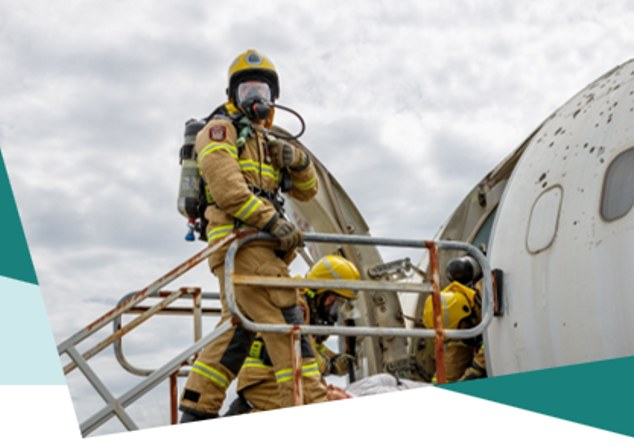
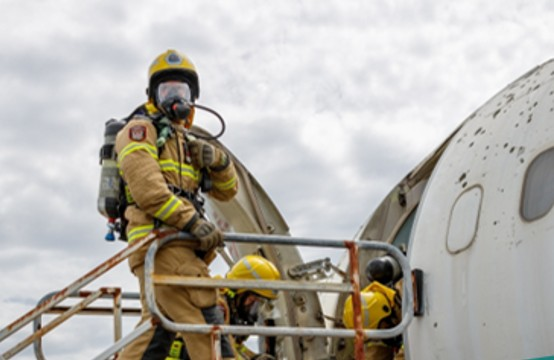
Rebuild the header composition to match the reference artwork
The previous attempt kept my own layout and only swapped the polygons. This
reproduces the supplied composition's actual geometry.

- Header becomes a two-column grid; the art column is locked to the
  reference's 798x662 ratio and bleeds off the right edge, so the shapes hold
  their proportions rather than being stretched by the header's height.
- Image frame: quadrilateral with a steep left edge, corners taken from the
  reference at 19%/14.4%, 100%/0, 100%/100%, 43.9%/100%.
- Coast quadrilateral behind it on the opposing angle, so it surfaces only as
  a wedge above the frame and a band below its lower-left corner. Solid
  rather than tinted, matching the reference.
- Below 900px the same two shapes sit under the heading at 16:9.

hero.jpg is re-cropped to 554x360 - the largest region of the email banner
free of its own white and pale-teal corners, which were bleeding through the
frame in the previous render. object-position moved to 10% so the steep left
edge no longer cuts through the firefighter.

Claude-Session: https://claude.ai/code/session_01Pvx1KHBK4SKDspdgaa5xKi

diff --git a/index.html b/index.html
@@ -37,19 +37,22 @@ body{margin:0;min-height:100vh;font-family:"Lab Grotesque","Open Sans",Arial,Hel
 .logobar{background:var(--white);padding:1.15rem clamp(1rem,4vw,4rem);border-bottom:1px solid rgba(10,73,99,.08)}
 .logo{display:block;width:190px;max-width:52vw;height:auto}
 
-header{background:var(--teal);color:var(--white);padding:2.25rem clamp(1rem,4vw,4rem) 4.75rem;position:relative;overflow:hidden}
+header{background:var(--teal);color:var(--white);padding:2.25rem clamp(1rem,4vw,4rem) 4.75rem;position:relative;overflow:hidden;display:grid;grid-template-columns:minmax(0,1fr) minmax(0,.68fr);gap:clamp(1rem,3vw,2.75rem);align-items:center}
 
 /* Graphic thread - layering approach, per the PAPL brand guidelines.
-   One composition only: an image frame cropped to a quadrilateral (two
-   triangles forming a 'point', a shape deconstructed from the facets),
-   paired with a single-colour triangle sitting BEHIND it at a different
-   angle. Coast at 34% keeps it a tint rather than a focal point, and the
-   left half of the header stays a large unobstructed content area.
+   The image is cropped to a quadrilateral (two triangles forming a 'point',
+   a shape deconstructed from the facets) with a steep left edge. A single
+   solid Coast quadrilateral sits BEHIND it on a counter-angle, so it shows
+   only at two opposite ends - a wedge above the frame's top edge and a
+   band below its lower-left corner. Angles are deliberately opposed rather
+   than mirrored, per "vary angles dynamically to avoid repetition".
+   Percentages are taken from the reference composition on a 798x662 box,
+   so the art keeps that aspect ratio at every width.
    The facets themselves are never recreated, tiled or repeated. */
-.header__body{position:relative;z-index:1;max-width:min(54%,660px)}
-.header__art{position:absolute;top:0;right:0;bottom:0;width:46%;pointer-events:none}
-.art__shape{position:absolute;inset:0;background:var(--coast);opacity:.34;clip-path:polygon(6% 14%,100% 0,84% 100%)}
-.art__frame{position:absolute;inset:0;width:100%;height:100%;object-fit:cover;object-position:38% 50%;clip-path:polygon(28% 0,100% 7%,100% 92%,10% 82%)}
+.header__body{position:relative;z-index:1}
+.header__art{position:relative;aspect-ratio:798/662;margin-right:calc(clamp(1rem,4vw,4rem)*-1);pointer-events:none}
+.art__shape{position:absolute;inset:0;background:var(--coast);clip-path:polygon(43.2% 0,58.6% 0,43.9% 100%,17.5% 100%)}
+.art__frame{position:absolute;inset:0;width:100%;height:100%;object-fit:cover;object-position:10% 50%;clip-path:polygon(19% 14.4%,100% 0,100% 100%,43.9% 100%)}
 
 .brandline{font-weight:400;font-size:.9rem;letter-spacing:.02em;opacity:.9;margin-bottom:.85rem}
 h1{font-weight:400;line-height:1.05;font-size:clamp(2.1rem,5vw,4.6rem);margin:0;max-width:900px;letter-spacing:-.015em}
@@ -158,14 +161,12 @@ footer{width:min(1180px,calc(100% - 2rem));margin:0 auto 3rem;padding-top:1.4rem
 /* Below 900px the art stops being a side panel and becomes a banner under
    the heading. The clip-paths are percentage-based, so the same two shapes
    re-proportion themselves rather than being swapped out or dropped. */
+/* Below 900px the art stops being a side column and sits under the heading,
+   full width. Same two shapes and the same angles - only the aspect ratio
+   flattens, so the composition is never swapped out or dropped. */
 @media(max-width:900px){
-  .header__body{max-width:none}
-  /* relative, not static: the shape and frame are absolutely positioned, so
-     a static parent would anchor them to <header> and drop the photo over
-     the heading. */
-  .header__art{position:relative;top:auto;right:auto;bottom:auto;width:auto;aspect-ratio:16/6;margin:1.6rem 0 0}
-  .art__shape{clip-path:polygon(0 22%,100% 0,92% 100%)}
-  .art__frame{clip-path:polygon(14% 0,100% 10%,100% 100%,2% 86%)}
+  header{display:block}
+  .header__art{aspect-ratio:16/9;margin:1.75rem calc(clamp(1rem,4vw,4rem)*-1) 0}
 }
 
 @media(max-width:880px){
@@ -217,7 +218,7 @@ footer{width:min(1180px,calc(100% - 2rem));margin:0 auto 3rem;padding-top:1.4rem
   </div>
   <div class="header__art">
     <span class="art__shape" aria-hidden="true"></span>
-    <img class="art__frame" src="assets/hero.jpg" width="634" height="446"
+    <img class="art__frame" src="assets/hero.jpg" width="554" height="360"
          alt="Airport firefighters in breathing apparatus working an aircraft fuselage during a Perth Airport emergency exercise.">
   </div>
 </header>

diff --git a/templates/index.html b/templates/index.html
@@ -37,19 +37,22 @@ body{margin:0;min-height:100vh;font-family:"Lab Grotesque","Open Sans",Arial,Hel
 .logobar{background:var(--white);padding:1.15rem clamp(1rem,4vw,4rem);border-bottom:1px solid rgba(10,73,99,.08)}
 .logo{display:block;width:190px;max-width:52vw;height:auto}
 
-header{background:var(--teal);color:var(--white);padding:2.25rem clamp(1rem,4vw,4rem) 4.75rem;position:relative;overflow:hidden}
+header{background:var(--teal);color:var(--white);padding:2.25rem clamp(1rem,4vw,4rem) 4.75rem;position:relative;overflow:hidden;display:grid;grid-template-columns:minmax(0,1fr) minmax(0,.68fr);gap:clamp(1rem,3vw,2.75rem);align-items:center}
 
 /* Graphic thread - layering approach, per the PAPL brand guidelines.
-   One composition only: an image frame cropped to a quadrilateral (two
-   triangles forming a 'point', a shape deconstructed from the facets),
-   paired with a single-colour triangle sitting BEHIND it at a different
-   angle. Coast at 34% keeps it a tint rather than a focal point, and the
-   left half of the header stays a large unobstructed content area.
+   The image is cropped to a quadrilateral (two triangles forming a 'point',
+   a shape deconstructed from the facets) with a steep left edge. A single
+   solid Coast quadrilateral sits BEHIND it on a counter-angle, so it shows
+   only at two opposite ends - a wedge above the frame's top edge and a
+   band below its lower-left corner. Angles are deliberately opposed rather
+   than mirrored, per "vary angles dynamically to avoid repetition".
+   Percentages are taken from the reference composition on a 798x662 box,
+   so the art keeps that aspect ratio at every width.
    The facets themselves are never recreated, tiled or repeated. */
-.header__body{position:relative;z-index:1;max-width:min(54%,660px)}
-.header__art{position:absolute;top:0;right:0;bottom:0;width:46%;pointer-events:none}
-.art__shape{position:absolute;inset:0;background:var(--coast);opacity:.34;clip-path:polygon(6% 14%,100% 0,84% 100%)}
-.art__frame{position:absolute;inset:0;width:100%;height:100%;object-fit:cover;object-position:38% 50%;clip-path:polygon(28% 0,100% 7%,100% 92%,10% 82%)}
+.header__body{position:relative;z-index:1}
+.header__art{position:relative;aspect-ratio:798/662;margin-right:calc(clamp(1rem,4vw,4rem)*-1);pointer-events:none}
+.art__shape{position:absolute;inset:0;background:var(--coast);clip-path:polygon(43.2% 0,58.6% 0,43.9% 100%,17.5% 100%)}
+.art__frame{position:absolute;inset:0;width:100%;height:100%;object-fit:cover;object-position:10% 50%;clip-path:polygon(19% 14.4%,100% 0,100% 100%,43.9% 100%)}
 
 .brandline{font-weight:400;font-size:.9rem;letter-spacing:.02em;opacity:.9;margin-bottom:.85rem}
 h1{font-weight:400;line-height:1.05;font-size:clamp(2.1rem,5vw,4.6rem);margin:0;max-width:900px;letter-spacing:-.015em}
@@ -158,14 +161,12 @@ footer{width:min(1180px,calc(100% - 2rem));margin:0 auto 3rem;padding-top:1.4rem
 /* Below 900px the art stops being a side panel and becomes a banner under
    the heading. The clip-paths are percentage-based, so the same two shapes
    re-proportion themselves rather than being swapped out or dropped. */
+/* Below 900px the art stops being a side column and sits under the heading,
+   full width. Same two shapes and the same angles - only the aspect ratio
+   flattens, so the composition is never swapped out or dropped. */
 @media(max-width:900px){
-  .header__body{max-width:none}
-  /* relative, not static: the shape and frame are absolutely positioned, so
-     a static parent would anchor them to <header> and drop the photo over
-     the heading. */
-  .header__art{position:relative;top:auto;right:auto;bottom:auto;width:auto;aspect-ratio:16/6;margin:1.6rem 0 0}
-  .art__shape{clip-path:polygon(0 22%,100% 0,92% 100%)}
-  .art__frame{clip-path:polygon(14% 0,100% 10%,100% 100%,2% 86%)}
+  header{display:block}
+  .header__art{aspect-ratio:16/9;margin:1.75rem calc(clamp(1rem,4vw,4rem)*-1) 0}
 }
 
 @media(max-width:880px){
@@ -217,7 +218,7 @@ footer{width:min(1180px,calc(100% - 2rem));margin:0 auto 3rem;padding-top:1.4rem
   </div>
   <div class="header__art">
     <span class="art__shape" aria-hidden="true"></span>
-    <img class="art__frame" src="assets/hero.jpg" width="634" height="446"
+    <img class="art__frame" src="assets/hero.jpg" width="554" height="360"
          alt="Airport firefighters in breathing apparatus working an aircraft fuselage during a Perth Airport emergency exercise.">
   </div>
 </header>

diff --git a/README.md b/README.md
@@ -37,19 +37,21 @@ supports it.
 ### Graphic thread
 
 The header carries the page's **one** graphic-thread composition, built to the
-layering approach in the 2025 brand guidelines:
+layering approach in the 2025 brand guidelines and matching the reference
+composition supplied by the brand team:
 
-- The image is cropped to a **quadrilateral** — two triangles forming a
-  "point", one of the shapes deconstructed from the facets — kept simple but
-  irregular.
-- A **single-colour triangle sits behind** the frame at a different angle, in
-  Coast at 34%. The guidelines call for 20–40% tints so the shape complements
-  rather than becomes the focal point.
+- The image is cropped to a **quadrilateral** with a steep left edge — two
+  triangles forming a "point", one of the shapes deconstructed from the
+  facets — bleeding off the right.
+- A **single-colour Coast quadrilateral sits behind** it on a deliberately
+  opposed angle, so it shows only at two opposite ends: a wedge above the
+  frame's top edge and a band below its lower-left corner.
 - The left of the header stays a **large unobstructed content area**.
 
-Both shapes use percentage `clip-path`, so below 900px the same two shapes
-re-proportion into a banner beneath the heading rather than being swapped or
-dropped.
+Both shapes use percentage `clip-path` on a box locked to the reference's
+798×662 ratio, so the composition holds its proportions at every width. Below
+900px it moves under the heading at 16:9 — same shapes, same angles, only the
+aspect flattens.
 
 Deliberately **not** done, per the guidelines: the facets are never recreated,
 modified, tiled, overlapped or given effects, and the shapes are not repeated
@@ -57,10 +59,12 @@ elsewhere on the page — which is why the footer is a plain rule and the old
 floating background shard is gone. If you need a variation, the guidelines
 direct advanced compositions through the Brand & Marketing team.
 
-`assets/hero.jpg` is currently the 634px copy recovered from the email banner,
-which is soft above about 500px wide. **Replace it with the original photograph
-at the same path** — the frame is `object-fit: cover`, so no CSS changes are
-needed.
+`assets/hero.jpg` is a 554×360 region recovered from the email banner — the
+largest crop of it that is free of the banner's own white and pale-teal
+corners, which otherwise bleed into the frame. It is soft above about 500px
+wide. **Replace it with the original photograph at the same path**; the frame
+is `object-fit: cover`, so no CSS changes are needed, though
+`.art__frame`'s `object-position` may want re-centring on the new crop.
 
 **Typography is Lab Grotesque, self-hosted, with no web fallback in normal
 use.** Only Light (300) and Regular (400) are licensed here, so the page builds
